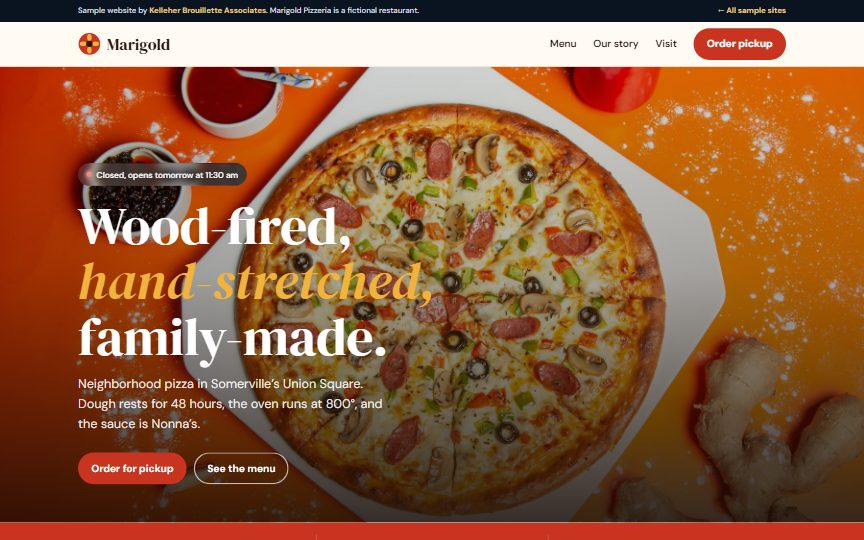
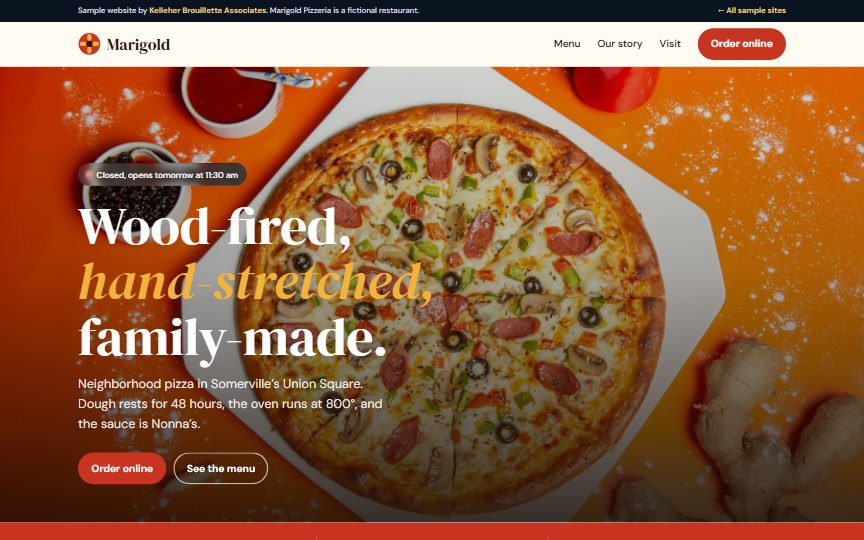
Make sample sites match how integrations really work
- Marigold: Order online section with DoorDash / Uber Eats buttons
  instead of built-in ordering
- Wren & Crumb: static weekly bake schedule (today highlighted) instead
  of a live stock board the owner would have to update; Order online
  button
- Harbor & Vine: reservation card framed as an embedded Resy /
  OpenTable / Tock widget
- Sample-only buttons show a note explaining where they'd go
- Samples page copy and previews updated

Changed region(s): [[0.125, 0.8296, 0.3438, 0.9185], [0.625, 0.0593, 0.9062, 0.1185]]

diff --git a/samples/wren-crumb/index.html b/samples/wren-crumb/index.html
@@ -74,10 +74,11 @@ section { padding: clamp(60px, 8vw, 100px) 0; }
 .board .h2 em { color: #e7a07f; }
 .board p { color: rgba(244,239,230,.75); }
 .bakes { list-style: none; margin: 0; padding: 0; display: grid; grid-template-columns: 1fr 1fr; gap: 12px; }
-.bakes li { background: rgba(255,255,255,.06); border: 1px solid rgba(255,255,255,.1); border-radius: 16px; padding: 16px 18px; display: flex; justify-content: space-between; gap: 10px; align-items: center; }
+.bakes li { background: rgba(255,255,255,.06); border: 1px solid rgba(255,255,255,.1); border-radius: 16px; padding: 16px 18px; display: grid; gap: 3px; align-content: start; }
 .bakes b { font-family: var(--serif); font-weight: 400; font-size: 18px; }
-.bakes span { font-size: 13px; color: #a9c39a; white-space: nowrap; }
-.bakes span.low { color: #e7a07f; }
+.bakes span { font-size: 14px; color: rgba(244,239,230,.7); line-height: 1.45; }
+.bakes li.today { border-color: #e7a07f; background: rgba(231,160,127,.12); }
+.bakes li.today b::after { content: "Today"; margin-left: 10px; padding: 2px 8px; border-radius: 999px; background: #e7a07f; color: var(--ink); font: 600 11px/1.6 var(--sans); letter-spacing: .08em; text-transform: uppercase; vertical-align: 3px; }
 @media (max-width: 860px) { .board { grid-template-columns: 1fr; } .bakes { grid-template-columns: 1fr; } }
 
 /* Menu cards */
@@ -127,6 +128,8 @@ textarea { min-height: 84px; resize: vertical; }
 footer { padding: 46px 0 110px; border-top: 1px solid var(--line); font-size: 15px; color: var(--muted); }
 footer .wrap { display: flex; justify-content: space-between; align-items: center; gap: 20px; flex-wrap: wrap; }
 
+.toast { position: fixed; left: 50%; bottom: 90px; transform: translate(-50%, 20px); z-index: 90; max-width: min(520px, calc(100% - 32px)); background: #0a1420; color: #fff; padding: 14px 18px; border-radius: 14px; font: 500 14.5px/1.45 system-ui, sans-serif; box-shadow: 0 14px 34px rgba(0,0,0,.3); opacity: 0; pointer-events: none; transition: opacity .25s, transform .25s; }
+.toast.show { opacity: 1; transform: translate(-50%, 0); }
 .actions { position: fixed; left: 12px; right: 12px; bottom: 12px; z-index: 70; display: none; grid-template-columns: repeat(3, 1fr); background: #fff; border: 1px solid var(--line); border-radius: 18px; overflow: hidden; box-shadow: 0 12px 30px rgba(0,0,0,.16); }
 .actions a { color: var(--ink); text-decoration: none; text-align: center; padding: 12px 6px; font-size: 13px; font-weight: 600; display: grid; gap: 4px; justify-items: center; }
 .actions a + a { border-left: 1px solid var(--line); }
@@ -141,7 +144,7 @@ footer .wrap { display: flex; justify-content: space-between; align-items: cente
 <header class="top">
   <div class="wrap">
     <a class="logo" href="#top"><svg viewBox="0 0 40 40" aria-hidden="true"><circle cx="20" cy="20" r="19" fill="#6b7f5e"/><path d="M10 23c3-7 9-10 15-9 2 .3 4 1.5 5 3l-4 1c-1 4-5 7-10 7-2 0-4-.6-6-2z" fill="#f4efe6"/><circle cx="25" cy="16.5" r="1.1" fill="#2f2a24"/></svg><span><b>Wren &amp; Crumb</b><small>Bakehouse</small></span></a>
-    <nav class="links" aria-label="Main"><a href="#menu">Menu</a><a href="#cakes">Custom cakes</a><a href="#visit">Visit</a><a class="btn" href="#menu">Order ahead</a></nav>
+    <nav class="links" aria-label="Main"><a href="#menu">Menu</a><a href="#cakes">Custom cakes</a><a href="#visit">Visit</a><a class="btn" href="#menu" data-sample-link="Sample only: on a real site, this opens Wren &amp; Crumb&rsquo;s DoorDash page for pickup or delivery.">Order online</a></nav>
   </div>
 </header>
 
@@ -152,7 +155,7 @@ footer .wrap { display: flex; justify-content: space-between; align-items: cente
       <span class="pill" data-status><i></i><span>Checking hours&hellip;</span></span>
       <h1>Bread worth <em>waking up</em> for.</h1>
       <p>A small-batch bakery and coffee bar in Arlington Center. Sourdough, pastries and cakes, baked from scratch before sunrise.</p>
-      <div class="row"><a class="btn" href="#menu">Order ahead for pickup</a><a class="btn line" href="#today">What&rsquo;s fresh today</a></div>
+      <div class="row"><a class="btn" href="#menu" data-sample-link="Sample only: on a real site, this opens Wren &amp; Crumb&rsquo;s DoorDash page for pickup or delivery.">Order online</a><a class="btn line" href="#today">This week&rsquo;s bakes</a></div>
     </div>
     <div class="arch">
       <img src="img/bread.jpg" alt="Loaves of fresh sourdough bread">
@@ -165,17 +168,17 @@ footer .wrap { display: flex; justify-content: space-between; align-items: cente
   <div class="wrap">
     <div class="board">
       <div>
-        <span class="eyebrow" style="color:#a9c39a">Today&rsquo;s bake &middot; <span data-today></span></span>
-        <h2 class="h2">Out of the oven <em>this morning.</em></h2>
-        <p>We update this board every morning, so you know what&rsquo;s here before you head over. Popular items go fast.</p>
+        <span class="eyebrow" style="color:#a9c39a">Bake schedule</span>
+        <h2 class="h2">What&rsquo;s in the case <em>this week.</em></h2>
+        <p>Our everyday favorites, plus the specials we bake on certain days. Today&rsquo;s lineup is highlighted.</p>
       </div>
       <ul class="bakes">
-        <li><b>Country sourdough</b><span>Plenty left</span></li>
-        <li><b>Almond croissant</b><span class="low">Almost gone</span></li>
-        <li><b>Morning buns</b><span>Plenty left</span></li>
-        <li><b>Seeded rye</b><span>Plenty left</span></li>
-        <li><b>Cardamom knots</b><span class="low">Almost gone</span></li>
-        <li><b>Chocolate cupcakes</b><span>Plenty left</span></li>
+        <li data-days="2,3,4,5,6,0"><b>Every day</b><span>Country sourdough, butter croissants, muffins</span></li>
+        <li data-days="2,4"><b>Tuesday &amp; Thursday</b><span>Seeded rye, cheddar scallion scones</span></li>
+        <li data-days="3"><b>Wednesday</b><span>Cardamom knots</span></li>
+        <li data-days="5"><b>Friday</b><span>Challah, seasonal fruit galettes</span></li>
+        <li data-days="6,0"><b>Weekends</b><span>Morning buns, cinnamon rolls</span></li>
+        <li data-days="1"><b>Monday</b><span>Closed. The ovens get a day off.</span></li>
       </ul>
     </div>
   </div>
@@ -270,7 +273,7 @@ footer .wrap { display: flex; justify-content: space-between; align-items: cente
 <nav class="actions" aria-label="Quick actions">
   <a href="#visit"><svg viewBox="0 0 24 24" fill="none" stroke="currentColor" stroke-width="2" stroke-linecap="round" stroke-linejoin="round"><path d="M22 16.9v3a2 2 0 0 1-2.2 2 19.8 19.8 0 0 1-8.6-3.1 19.5 19.5 0 0 1-6-6A19.8 19.8 0 0 1 2.1 4.2 2 2 0 0 1 4.1 2h3a2 2 0 0 1 2 1.7c.1 1 .4 1.9.7 2.8a2 2 0 0 1-.5 2.1L8 9.9a16 16 0 0 0 6 6l1.3-1.3a2 2 0 0 1 2.1-.4c.9.3 1.8.6 2.8.7a2 2 0 0 1 1.7 2z"/></svg>Call</a>
   <a href="#visit"><svg viewBox="0 0 24 24" fill="none" stroke="currentColor" stroke-width="2" stroke-linecap="round" stroke-linejoin="round"><path d="M12 21s-7-6.2-7-11a7 7 0 0 1 14 0c0 4.8-7 11-7 11z"/><circle cx="12" cy="10" r="2.5"/></svg>Directions</a>
-  <a href="#menu"><svg viewBox="0 0 24 24" fill="none" stroke="currentColor" stroke-width="2" stroke-linecap="round" stroke-linejoin="round"><circle cx="9" cy="20" r="1.5"/><circle cx="18" cy="20" r="1.5"/><path d="M2 3h3l2.6 12.4a1 1 0 0 0 1 .8h9.7a1 1 0 0 0 1-.8L21 7H6"/></svg>Order ahead</a>
+  <a href="#menu" data-sample-link="Sample only: on a real site, this opens Wren &amp; Crumb&rsquo;s DoorDash page for pickup or delivery."><svg viewBox="0 0 24 24" fill="none" stroke="currentColor" stroke-width="2" stroke-linecap="round" stroke-linejoin="round"><circle cx="9" cy="20" r="1.5"/><circle cx="18" cy="20" r="1.5"/><path d="M2 3h3l2.6 12.4a1 1 0 0 0 1 .8h9.7a1 1 0 0 0 1-.8L21 7H6"/></svg>Order</a>
 </nav>
 
 <script>
@@ -289,12 +292,23 @@ function fmt(h) { var hr = Math.floor(h), m = Math.round((h - hr) * 60), ap = hr
       if (nh && (i > 0 || t < nh[0])) { label.textContent = 'Closed, opens ' + (i === 0 ? 'today' : i === 1 ? 'tomorrow' : DAYS[nd]) + ' at ' + fmt(nh[0]); break; }
     }
   }
-  document.querySelector('[data-today]').textContent = DAYS[d];
+  document.querySelectorAll('.bakes [data-days]').forEach(function (li) { if (li.dataset.days.split(',').indexOf(String(d)) > -1) li.classList.add('today'); });
   var row = document.querySelector('[data-hours] [data-day="' + d + '"]'); if (row) row.classList.add('today');
 })();
 document.querySelectorAll('[data-sample-form]').forEach(function (f) {
   f.addEventListener('submit', function (e) { e.preventDefault(); f.querySelector('[data-note]').style.display = 'block'; f.reset(); });
 });
+// Sample-only links: explain where the button would go on a real site.
+(function () {
+  var t = document.createElement('div'); t.className = 'toast'; t.setAttribute('role', 'status'); document.body.appendChild(t);
+  var timer;
+  document.querySelectorAll('[data-sample-link]').forEach(function (a) {
+    a.addEventListener('click', function (e) {
+      e.preventDefault(); t.textContent = a.dataset.sampleLink; t.classList.add('show');
+      clearTimeout(timer); timer = setTimeout(function () { t.classList.remove('show'); }, 4200);
+    });
+  });
+})();
 </script>
 </body>
 </html>

diff --git a/samples.html b/samples.html
@@ -78,7 +78,7 @@
 
 <section class="section" id="samples">
   <div class="wrap">
-    <p class="sample-note reveal"><strong>These restaurants are made up.</strong> The names, menus and addresses are examples, and the photos are free stock images. Your site is designed around your restaurant, your food and your photos.</p>
+    <p class="sample-note reveal"><strong>These restaurants are made up.</strong> The names, menus and addresses are examples, and the photos are free stock images. Your site is designed around your restaurant, your food and your photos. Ordering and reservation buttons connect to the services you already use, like DoorDash, Uber Eats, Toast, Resy or OpenTable.</p>
     <div class="samples">
       <article class="sample">
         <a class="sample-shot reveal" href="samples/marigold/index.html" aria-label="Open the Marigold Pizzeria sample site">
@@ -89,7 +89,7 @@
           <span class="eyebrow">Pizzeria &middot; Casual</span>
           <h2 class="h3">Marigold Pizzeria</h2>
           <p>A bold, warm site for a busy neighborhood spot, built around getting people to order.</p>
-          <ul class="sample-feats"><li><svg viewBox="0 0 24 24" fill="none" stroke="currentColor" stroke-width="1.75" stroke-linecap="round" stroke-linejoin="round" aria-hidden="true"><path d="M20 6 9 17l-5-5"/></svg>Live &ldquo;open now&rdquo; status</li><li><svg viewBox="0 0 24 24" fill="none" stroke="currentColor" stroke-width="1.75" stroke-linecap="round" stroke-linejoin="round" aria-hidden="true"><path d="M20 6 9 17l-5-5"/></svg>Tabbed menu with prices</li><li><svg viewBox="0 0 24 24" fill="none" stroke="currentColor" stroke-width="1.75" stroke-linecap="round" stroke-linejoin="round" aria-hidden="true"><path d="M20 6 9 17l-5-5"/></svg>Weekly specials</li><li><svg viewBox="0 0 24 24" fill="none" stroke="currentColor" stroke-width="1.75" stroke-linecap="round" stroke-linejoin="round" aria-hidden="true"><path d="M20 6 9 17l-5-5"/></svg>Catering request form</li><li><svg viewBox="0 0 24 24" fill="none" stroke="currentColor" stroke-width="1.75" stroke-linecap="round" stroke-linejoin="round" aria-hidden="true"><path d="M20 6 9 17l-5-5"/></svg>Call, directions and order buttons on phones</li></ul>
+          <ul class="sample-feats"><li><svg viewBox="0 0 24 24" fill="none" stroke="currentColor" stroke-width="1.75" stroke-linecap="round" stroke-linejoin="round" aria-hidden="true"><path d="M20 6 9 17l-5-5"/></svg>Live &ldquo;open now&rdquo; status</li><li><svg viewBox="0 0 24 24" fill="none" stroke="currentColor" stroke-width="1.75" stroke-linecap="round" stroke-linejoin="round" aria-hidden="true"><path d="M20 6 9 17l-5-5"/></svg>Tabbed menu with prices</li><li><svg viewBox="0 0 24 24" fill="none" stroke="currentColor" stroke-width="1.75" stroke-linecap="round" stroke-linejoin="round" aria-hidden="true"><path d="M20 6 9 17l-5-5"/></svg>DoorDash and Uber Eats ordering buttons</li><li><svg viewBox="0 0 24 24" fill="none" stroke="currentColor" stroke-width="1.75" stroke-linecap="round" stroke-linejoin="round" aria-hidden="true"><path d="M20 6 9 17l-5-5"/></svg>Catering request form</li><li><svg viewBox="0 0 24 24" fill="none" stroke="currentColor" stroke-width="1.75" stroke-linecap="round" stroke-linejoin="round" aria-hidden="true"><path d="M20 6 9 17l-5-5"/></svg>Call, directions and order buttons on phones</li></ul>
           <a class="btn btn-dark" href="samples/marigold/index.html">View sample site <svg viewBox="0 0 24 24" fill="none" stroke="currentColor" stroke-width="1.75" stroke-linecap="round" stroke-linejoin="round" aria-hidden="true"><path d="M5 12h14M13 6l6 6-6 6"/></svg></a>
         </div>
       </article>
@@ -102,7 +102,7 @@
           <span class="eyebrow">Bakery &middot; Caf&eacute;</span>
           <h2 class="h3">Wren &amp; Crumb Bakehouse</h2>
           <p>A light, friendly site for a morning bakery and coffee bar.</p>
-          <ul class="sample-feats"><li><svg viewBox="0 0 24 24" fill="none" stroke="currentColor" stroke-width="1.75" stroke-linecap="round" stroke-linejoin="round" aria-hidden="true"><path d="M20 6 9 17l-5-5"/></svg>&ldquo;Today&rsquo;s bake&rdquo; board</li><li><svg viewBox="0 0 24 24" fill="none" stroke="currentColor" stroke-width="1.75" stroke-linecap="round" stroke-linejoin="round" aria-hidden="true"><path d="M20 6 9 17l-5-5"/></svg>Menu cards with photos</li><li><svg viewBox="0 0 24 24" fill="none" stroke="currentColor" stroke-width="1.75" stroke-linecap="round" stroke-linejoin="round" aria-hidden="true"><path d="M20 6 9 17l-5-5"/></svg>Custom cake order form</li><li><svg viewBox="0 0 24 24" fill="none" stroke="currentColor" stroke-width="1.75" stroke-linecap="round" stroke-linejoin="round" aria-hidden="true"><path d="M20 6 9 17l-5-5"/></svg>Instagram-style photo grid</li><li><svg viewBox="0 0 24 24" fill="none" stroke="currentColor" stroke-width="1.75" stroke-linecap="round" stroke-linejoin="round" aria-hidden="true"><path d="M20 6 9 17l-5-5"/></svg>Hours with today highlighted</li></ul>
+          <ul class="sample-feats"><li><svg viewBox="0 0 24 24" fill="none" stroke="currentColor" stroke-width="1.75" stroke-linecap="round" stroke-linejoin="round" aria-hidden="true"><path d="M20 6 9 17l-5-5"/></svg>Weekly bake schedule with today highlighted</li><li><svg viewBox="0 0 24 24" fill="none" stroke="currentColor" stroke-width="1.75" stroke-linecap="round" stroke-linejoin="round" aria-hidden="true"><path d="M20 6 9 17l-5-5"/></svg>Menu cards with photos</li><li><svg viewBox="0 0 24 24" fill="none" stroke="currentColor" stroke-width="1.75" stroke-linecap="round" stroke-linejoin="round" aria-hidden="true"><path d="M20 6 9 17l-5-5"/></svg>Custom cake order form</li><li><svg viewBox="0 0 24 24" fill="none" stroke="currentColor" stroke-width="1.75" stroke-linecap="round" stroke-linejoin="round" aria-hidden="true"><path d="M20 6 9 17l-5-5"/></svg>Instagram-style photo grid</li><li><svg viewBox="0 0 24 24" fill="none" stroke="currentColor" stroke-width="1.75" stroke-linecap="round" stroke-linejoin="round" aria-hidden="true"><path d="M20 6 9 17l-5-5"/></svg>Online ordering button</li></ul>
           <a class="btn btn-dark" href="samples/wren-crumb/index.html">View sample site <svg viewBox="0 0 24 24" fill="none" stroke="currentColor" stroke-width="1.75" stroke-linecap="round" stroke-linejoin="round" aria-hidden="true"><path d="M5 12h14M13 6l6 6-6 6"/></svg></a>
         </div>
       </article>
@@ -115,7 +115,7 @@
           <span class="eyebrow">Fine dining &middot; Seasonal</span>
           <h2 class="h3">Harbor &amp; Vine</h2>
           <p>A dark, elegant site for a destination restaurant with a tasting menu.</p>
-          <ul class="sample-feats"><li><svg viewBox="0 0 24 24" fill="none" stroke="currentColor" stroke-width="1.75" stroke-linecap="round" stroke-linejoin="round" aria-hidden="true"><path d="M20 6 9 17l-5-5"/></svg>Full-screen photo opening</li><li><svg viewBox="0 0 24 24" fill="none" stroke="currentColor" stroke-width="1.75" stroke-linecap="round" stroke-linejoin="round" aria-hidden="true"><path d="M20 6 9 17l-5-5"/></svg>Tasting menu by course</li><li><svg viewBox="0 0 24 24" fill="none" stroke="currentColor" stroke-width="1.75" stroke-linecap="round" stroke-linejoin="round" aria-hidden="true"><path d="M20 6 9 17l-5-5"/></svg>Private dining and events</li><li><svg viewBox="0 0 24 24" fill="none" stroke="currentColor" stroke-width="1.75" stroke-linecap="round" stroke-linejoin="round" aria-hidden="true"><path d="M20 6 9 17l-5-5"/></svg>Reservation date and time picker</li><li><svg viewBox="0 0 24 24" fill="none" stroke="currentColor" stroke-width="1.75" stroke-linecap="round" stroke-linejoin="round" aria-hidden="true"><path d="M20 6 9 17l-5-5"/></svg>Chef&rsquo;s story</li></ul>
+          <ul class="sample-feats"><li><svg viewBox="0 0 24 24" fill="none" stroke="currentColor" stroke-width="1.75" stroke-linecap="round" stroke-linejoin="round" aria-hidden="true"><path d="M20 6 9 17l-5-5"/></svg>Full-screen photo opening</li><li><svg viewBox="0 0 24 24" fill="none" stroke="currentColor" stroke-width="1.75" stroke-linecap="round" stroke-linejoin="round" aria-hidden="true"><path d="M20 6 9 17l-5-5"/></svg>Tasting menu by course</li><li><svg viewBox="0 0 24 24" fill="none" stroke="currentColor" stroke-width="1.75" stroke-linecap="round" stroke-linejoin="round" aria-hidden="true"><path d="M20 6 9 17l-5-5"/></svg>Private dining and events</li><li><svg viewBox="0 0 24 24" fill="none" stroke="currentColor" stroke-width="1.75" stroke-linecap="round" stroke-linejoin="round" aria-hidden="true"><path d="M20 6 9 17l-5-5"/></svg>Built-in reservation widget (Resy, OpenTable or Tock)</li><li><svg viewBox="0 0 24 24" fill="none" stroke="currentColor" stroke-width="1.75" stroke-linecap="round" stroke-linejoin="round" aria-hidden="true"><path d="M20 6 9 17l-5-5"/></svg>Chef&rsquo;s story</li></ul>
           <a class="btn btn-dark" href="samples/harbor-vine/index.html">View sample site <svg viewBox="0 0 24 24" fill="none" stroke="currentColor" stroke-width="1.75" stroke-linecap="round" stroke-linejoin="round" aria-hidden="true"><path d="M5 12h14M13 6l6 6-6 6"/></svg></a>
         </div>
       </article>

diff --git a/samples/marigold/index.html b/samples/marigold/index.html
@@ -143,6 +143,16 @@ footer .logo { color: var(--cream); }
 .social a { width: 42px; height: 42px; border-radius: 50%; border: 1px solid rgba(255,255,255,.2); display: grid; place-items: center; }
 .social svg { width: 18px; height: 18px; }
 
+/* Order band */
+.order-band { display: flex; justify-content: space-between; align-items: center; gap: 24px 40px; flex-wrap: wrap; padding: clamp(28px, 4vw, 48px); border-radius: 28px; background: var(--cream); border: 1px solid var(--line); }
+.order-btns { display: flex; gap: 10px; flex-wrap: wrap; }
+.btn.dark { background: var(--ink); }
+.btn.dark:hover { background: #000; }
+.btn.line { background: transparent; color: var(--ink); box-shadow: inset 0 0 0 2px var(--ink); }
+.btn.line:hover { background: var(--ink); color: var(--cream); }
+.toast { position: fixed; left: 50%; bottom: 90px; transform: translate(-50%, 20px); z-index: 90; max-width: min(520px, calc(100% - 32px)); background: #0a1420; color: #fff; padding: 14px 18px; border-radius: 14px; font: 500 14.5px/1.45 system-ui, sans-serif; box-shadow: 0 14px 34px rgba(0,0,0,.3); opacity: 0; pointer-events: none; transition: opacity .25s, transform .25s; }
+.toast.show { opacity: 1; transform: translate(-50%, 0); }
+
 /* Mobile action bar */
 .actions { position: fixed; left: 12px; right: 12px; bottom: 12px; z-index: 70; display: none; grid-template-columns: repeat(3, 1fr); background: var(--ink); border-radius: 18px; overflow: hidden; box-shadow: 0 12px 30px rgba(0,0,0,.3); }
 .actions a { color: #fff; text-decoration: none; text-align: center; padding: 12px 6px; font-size: 13px; font-weight: 700; display: grid; gap: 4px; justify-items: center; }
@@ -158,7 +168,7 @@ footer .logo { color: var(--cream); }
 <header class="top">
   <div class="wrap">
     <a class="logo" href="#top"><svg viewBox="0 0 40 40" aria-hidden="true"><circle cx="20" cy="20" r="19" fill="#c8341f"/><g fill="#f2b33d"><ellipse cx="20" cy="9" rx="4" ry="6"/><ellipse cx="20" cy="31" rx="4" ry="6"/><ellipse cx="9" cy="20" rx="6" ry="4"/><ellipse cx="31" cy="20" rx="6" ry="4"/></g><circle cx="20" cy="20" r="5.5" fill="#2a1a12"/></svg>Marigold</a>
-    <nav class="links" aria-label="Main"><a href="#menu">Menu</a><a href="#about">Our story</a><a href="#visit">Visit</a><a class="btn" href="#menu">Order pickup</a></nav>
+    <nav class="links" aria-label="Main"><a href="#menu">Menu</a><a href="#about">Our story</a><a href="#visit">Visit</a><a class="btn" href="#order">Order online</a></nav>
   </div>
 </header>
 
@@ -169,10 +179,10 @@ footer .logo { color: var(--cream); }
     <span class="status" data-status><i></i><span>Checking hours&hellip;</span></span>
     <h1>Wood-fired, <em>hand-stretched,</em> family-made.</h1>
     <p>Neighborhood pizza in Somerville&rsquo;s Union Square. Dough rests for 48 hours, the oven runs at 800&deg;, and the sauce is Nonna&rsquo;s.</p>
-    <div class="row"><a class="btn" href="#menu">Order for pickup</a><a class="btn ghost" href="#menu">See the menu</a></div>
+    <div class="row"><a class="btn" href="#order">Order online</a><a class="btn ghost" href="#menu">See the menu</a></div>
   </div>
 </section>
-<div class="strip"><div class="wrap"><div>Pickup<span>Ready in about 20 minutes</span></div><div>Delivery<span>Within 3 miles</span></div><div>Catering<span>Parties of 10 to 200</span></div></div></div>
+<div class="strip"><div class="wrap"><div>Pickup<span>Order online or call ahead</span></div><div>Delivery<span>Through DoorDash &amp; Uber Eats</span></div><div>Catering<span>Parties of 10 to 200</span></div></div></div>
 
 <section id="menu">
   <div class="wrap">
@@ -208,6 +218,15 @@ footer .logo { color: var(--cream); }
       <div class="item"><h3>Cannoli</h3><span class="price">$6</span><p>Filled to order with sweet ricotta and chocolate chips.</p></div>
       <div class="item"><h3>Nutella Pizza</h3><span class="price">$12</span><p>Wood-fired dough, Nutella, strawberries, powdered sugar.</p></div>
       <div class="item"><h3>Affogato</h3><span class="price">$7</span><p>Vanilla gelato drowned in a shot of espresso.</p></div>
+    </div>
+  </div>
+</section>
+
+<section id="order" style="padding-top:0">
+  <div class="wrap">
+    <div class="order-band">
+      <div><span class="kicker">Order online</span><h2 class="h2" style="margin-bottom:8px">Pickup or <em>delivery.</em></h2><p class="lead" style="margin:0">Order through the apps you already use. Same menu, same oven.</p></div>
+      <div class="order-btns"><a class="btn" href="#order" data-sample-link="Sample only: on a real site, this opens Marigold&rsquo;s DoorDash page.">Order on DoorDash</a><a class="btn dark" href="#order" data-sample-link="Sample only: on a real site, this opens Marigold&rsquo;s Uber Eats page.">Order on Uber Eats</a><a class="btn line" href="#visit">Call for pickup</a></div>
     </div>
   </div>
 </section>
@@ -308,7 +327,7 @@ footer .logo { color: var(--cream); }
 <nav class="actions" aria-label="Quick actions">
   <a href="#visit"><svg viewBox="0 0 24 24" fill="none" stroke="currentColor" stroke-width="2" stroke-linecap="round" stroke-linejoin="round"><path d="M22 16.9v3a2 2 0 0 1-2.2 2 19.8 19.8 0 0 1-8.6-3.1 19.5 19.5 0 0 1-6-6A19.8 19.8 0 0 1 2.1 4.2 2 2 0 0 1 4.1 2h3a2 2 0 0 1 2 1.7c.1 1 .4 1.9.7 2.8a2 2 0 0 1-.5 2.1L8 9.9a16 16 0 0 0 6 6l1.3-1.3a2 2 0 0 1 2.1-.4c.9.3 1.8.6 2.8.7a2 2 0 0 1 1.7 2z"/></svg>Call</a>
   <a href="#visit"><svg viewBox="0 0 24 24" fill="none" stroke="currentColor" stroke-width="2" stroke-linecap="round" stroke-linejoin="round"><path d="M12 21s-7-6.2-7-11a7 7 0 0 1 14 0c0 4.8-7 11-7 11z"/><circle cx="12" cy="10" r="2.5"/></svg>Directions</a>
-  <a href="#menu"><svg viewBox="0 0 24 24" fill="none" stroke="currentColor" stroke-width="2" stroke-linecap="round" stroke-linejoin="round"><circle cx="9" cy="20" r="1.5"/><circle cx="18" cy="20" r="1.5"/><path d="M2 3h3l2.6 12.4a1 1 0 0 0 1 .8h9.7a1 1 0 0 0 1-.8L21 7H6"/></svg>Order</a>
+  <a href="#order"><svg viewBox="0 0 24 24" fill="none" stroke="currentColor" stroke-width="2" stroke-linecap="round" stroke-linejoin="round"><circle cx="9" cy="20" r="1.5"/><circle cx="18" cy="20" r="1.5"/><path d="M2 3h3l2.6 12.4a1 1 0 0 0 1 .8h9.7a1 1 0 0 0 1-.8L21 7H6"/></svg>Order</a>
 </nav>
 
 <script>
@@ -337,6 +356,17 @@ document.querySelectorAll('[data-tab]').forEach(function (b) {
 document.querySelectorAll('[data-sample-form]').forEach(function (f) {
   f.addEventListener('submit', function (e) { e.preventDefault(); f.querySelector('[data-note]').style.display = 'block'; f.reset(); });
 });
+// Sample-only links: explain where the button would go on a real site.
+(function () {
+  var t = document.createElement('div'); t.className = 'toast'; t.setAttribute('role', 'status'); document.body.appendChild(t);
+  var timer;
+  document.querySelectorAll('[data-sample-link]').forEach(function (a) {
+    a.addEventListener('click', function (e) {
+      e.preventDefault(); t.textContent = a.dataset.sampleLink; t.classList.add('show');
+      clearTimeout(timer); timer = setTimeout(function () { t.classList.remove('show'); }, 4200);
+    });
+  });
+})();
 </script>
 </body>
 </html>

diff --git a/samples/harbor-vine/index.html b/samples/harbor-vine/index.html
@@ -106,6 +106,10 @@ input, select { font: 400 16px var(--sans); padding: 13px 12px; background: var(
 .times { grid-column: 1 / -1; display: flex; gap: 8px; flex-wrap: wrap; }
 .times button { font: 400 15px var(--sans); padding: 10px 16px; background: transparent; color: var(--text); border: 1px solid var(--copper); cursor: pointer; }
 .times button:hover, .times button.sel { background: var(--copper); color: #14110d; }
+.res-head { display: flex; justify-content: space-between; align-items: baseline; gap: 6px 16px; flex-wrap: wrap; margin-bottom: 22px; padding-bottom: 18px; border-bottom: 1px solid var(--line); }
+.res-head h3 { font-size: 30px; }
+.res-head span { font-size: 12px; letter-spacing: .14em; text-transform: uppercase; color: var(--muted); }
+.res-powered { grid-column: 1 / -1; margin: 6px 0 0; padding-top: 14px; border-top: 1px solid var(--line); font-size: 12.5px; color: var(--muted); }
 .res-msg { grid-column: 1 / -1; color: var(--copper-2); font-size: 15px; min-height: 1.5em; margin: 0; }
 .info { display: grid; grid-template-columns: 1fr 1fr; gap: 28px; margin-top: 36px; }
 .info h3 { font-family: var(--sans); font-size: 12px; letter-spacing: .24em; text-transform: uppercase; color: var(--copper-2); margin-bottom: 10px; font-weight: 500; }
@@ -208,6 +212,7 @@ footer .wrap { display: flex; justify-content: space-between; gap: 20px; flex-wr
       </div>
     </div>
     <div class="res-card">
+      <div class="res-head"><h3>Reserve a table</h3><span>Live availability from your reservation system</span></div>
       <form class="res-form" data-res>
         <label>Date<input type="date" required data-date></label>
         <label>Guests<select><option>2 guests</option><option>3 guests</option><option>4 guests</option><option>5 guests</option><option>6 guests</option><option>7 guests</option><option>8 guests</option></select></label>
@@ -216,6 +221,7 @@ footer .wrap { display: flex; justify-content: space-between; gap: 20px; flex-wr
           <button type="button">5:30 pm</button><button type="button">6:00 pm</button><button type="button">6:45 pm</button><button type="button">7:30 pm</button><button type="button">8:15 pm</button>
         </div>
         <p class="res-msg" data-res-msg>Choose a date, then pick a time.</p>
+        <p class="res-powered">Booking widget by Resy, OpenTable or Tock, built right into the page</p>
       </form>
     </div>
   </div>
@@ -256,7 +262,7 @@ function fmt(h) { var hr = Math.floor(h), ap = hr >= 12 ? 'pm' : 'am'; return (h
       if (!date.value) { msg.textContent = 'Please choose a date first.'; date.focus(); return; }
       form.querySelectorAll('.times button').forEach(function (x) { x.classList.toggle('sel', x === b); });
       var day = new Date(date.value + 'T12:00').getDay();
-      msg.textContent = HOURS[day] ? 'Sample only: on a real site, this books ' + DAYS[day] + ' at ' + b.textContent + ' through your reservation system.' : 'We’re closed on ' + DAYS[day] + 's. Please choose another date.';
+      msg.textContent = HOURS[day] ? 'Sample only. On a real site, this is the restaurant\u2019s own Resy, OpenTable or Tock widget: ' + DAYS[day] + ' at ' + b.textContent + ' is booked right here and shows up on the host stand.' : 'We’re closed on ' + DAYS[day] + 's. Please choose another date.';
     });
   });
 })();
